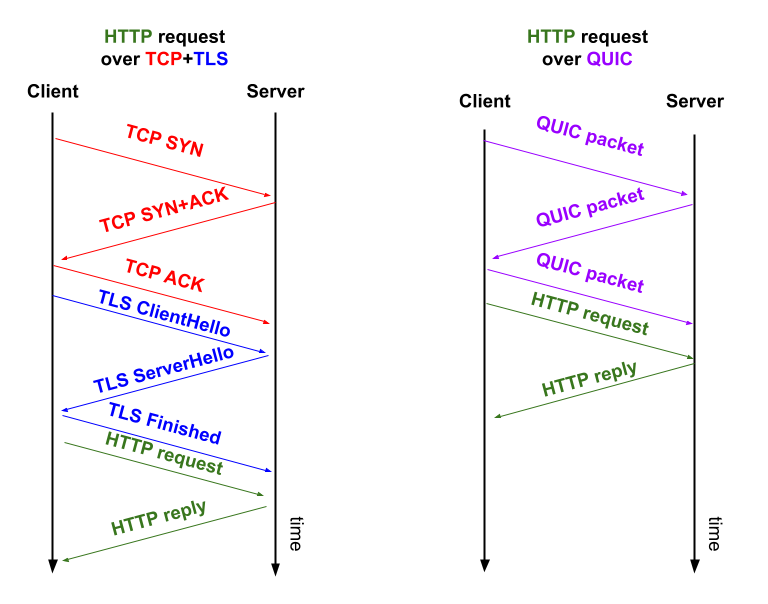
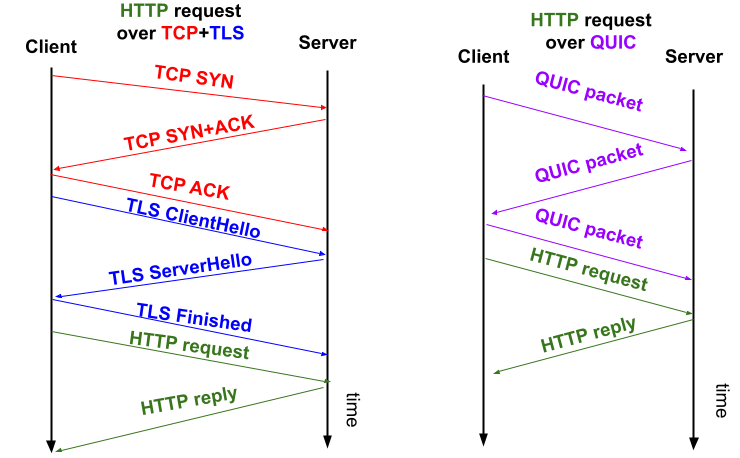
Reduced the page count

diff --git a/diss.tex b/diss.tex
@@ -551,7 +551,7 @@ This diagram demonstrates that \texttt{HTTP/1.1} fails to address the Head-of-li
 
     \begin{figure}[!htb]
     \centering
-    \includegraphics[width=0.9\textwidth]{figs/Head_of_line_blocking_of_HTTP1_1.png}
+    \includegraphics[width=0.8\textwidth]{figs/Head_of_line_blocking_of_HTTP1_1.png}
     \caption[Head-of-line blocking of \texttt{HTTP/1.1}]{Head-of-line blocking of \texttt{HTTP/1.1}. This diagram visualises the ideas presented in Robin Marx's description of the \texttt{HTTP/1.1} HOL problem~\cite{head-of-line-blocking-in-quic-and-http-3-the-details}}
     \label{fig:Head_of_line_blocking_of_HTTP1_1}
     \end{figure}
@@ -654,7 +654,7 @@ For completeness I will mention that \texttt{HTTP/3} layer is smaller than analo
 
     \begin{figure}[!htb]
     \centering
-    \includegraphics[width=0.9\textwidth]{figs/Layers_in_the_protocol_stack.png}
+    \includegraphics[width=0.7\textwidth]{figs/Layers_in_the_protocol_stack.png}
     \caption[\texttt{QUIC/UDP/IP} network stack compared to \texttt{TCP/IP} network stack]{\texttt{QUIC/UDP/IP} network stack compared to \texttt{TCP/IP} network stack. This diagram combines ideas from Robin Marx's presentation about \texttt{QUIC}~\cite{head-of-line-blocking-in-quic-and-http-3-the-details} as well as other sources \cite{overview_of_the_QUIC_protocol, IETF_presentation_about_QUIC, HTTP_3_the_past_the_present_and_the_future}.
     }
     \label{fig:QUIC_network_stack}
@@ -882,7 +882,7 @@ In contrast, packet payloads are authenticated and encrypted to secure and hide 
 \subsection{\texttt{QUIC}'s Adoption}
 
 At the time of writing, $5.0\%$ of all the websites on the Internet used \texttt{QUIC} and $14.5\%$ used \texttt{HTTP/3}~\cite{bib_Adoption_comparison_Between_http2_http3_quic}.
-Similarly, according to Cloudflare\footnote{https://radar.cloudflare.com/}, at the same time 11\% of traffic used \texttt{HTTP/3}.
+Similarly, according to Cloudflare\cite{radar_cloudflare}, at the same time 11\% of traffic used \texttt{HTTP/3}.
 
 
 
@@ -954,13 +954,6 @@ However, on \texttt{ping} could not be used to measure one-way delay because net
 
 \texttt{Wireshark}\footnote{https://www.wireshark.org/} is a conventional tool used to inspect captured network packets (see Figure~\ref{fig:Wireshark_screenshot}).
 \texttt{Wireshark} visualises key information about the packets -- source and destination \texttt{IP} addresses, type of protocol and time when the packet was received on the specified network interface.
-
-    \begin{figure}[!htb]
-    \centering
-    \includegraphics[width=0.95\textwidth]{figs/Wireshark_screenshot.png}
-    \caption[Example of \texttt{QUIC} packets captured with \texttt{Wireshark}]{Example of \texttt{QUIC} packets captured with \texttt{Wireshark}. This diagram demonstrates that \texttt{Wireshark} can decrypt, parse and display \texttt{QUIC} packet headers. In this figure \texttt{QUIC's} packet numbers are highlighted.}
-    \label{fig:Wireshark_screenshot}
-    \end{figure}
     
 When required, I ran \texttt{Wireshark} on the intermediate machine to inspect the size of the packets transferred between the \texttt{QUIC} client and server.
 It is worth mentioning that \texttt{QUIC} packets are encrypted.
@@ -968,14 +961,6 @@ Hence, I had to share the server's cryptographic certificate with \texttt{Wiresh
 
 I used \texttt{Wireshark} ethically, meaning that I only used it to analyse traffic between the dedicated network interfaces.
 In other words, as demonstrated in Figure~\ref{fig:Wireshark_separation}, I did not capture packets from the college network because the testing environment used separate network interfaces. 
-
-    \begin{figure}[!htb]
-    \centering
-    \includegraphics[width=0.95\textwidth]{figs/Wireshark_separation.png}
-    \caption[Separation of testing and college networks]{Separation of testing and college networks. I performed testing on a private network, and I did not use \texttt{Wireshark} to capture packets from the college network}
-    \label{fig:Wireshark_separation}
-    \end{figure}
-
 
 
 \subsection{perf}
@@ -2115,12 +2100,31 @@ However, the design of offloaded logic should be flexible enough to support futu
 \appendix
 
 
+\chapter{\texttt{QUIC} packets captured with \texttt{Wireshark}} 
+    \begin{figure}[!htb]
+    \centering
+    \includegraphics[width=0.95\textwidth]{figs/Wireshark_screenshot.png}
+    \caption[Example of \texttt{QUIC} packets captured with \texttt{Wireshark}]{Example of \texttt{QUIC} packets captured with \texttt{Wireshark}. This diagram demonstrates that \texttt{Wireshark} can decrypt, parse and display \texttt{QUIC} packet headers. In this figure \texttt{QUIC's} packet numbers are highlighted.}
+    \label{fig:Wireshark_screenshot}
+    \end{figure}
+    
+    
+\chapter{Separation of testing and college networks} 
+    \begin{figure}[!htb]
+    \centering
+    \includegraphics[width=0.95\textwidth]{figs/Wireshark_separation.png}
+    \caption[Separation of testing and college networks]{Separation of testing and college networks. I performed testing on a private network, and I did not use \texttt{Wireshark} to capture packets from the college network}
+    \label{fig:Wireshark_separation}
+    \end{figure}
+    
+    
 
+\chapter{Evolution timeline of network technologies} 
     \begin{figure}[H]
     \centering
     % \includegraphics[width=0.7\textwidth]{figs/cf-secure-web-timeline-1.png}
 
-\chapter{Evolution timeline of network technologies} 
+
 % \label{preparation_script_from_zshrc}
 
 
